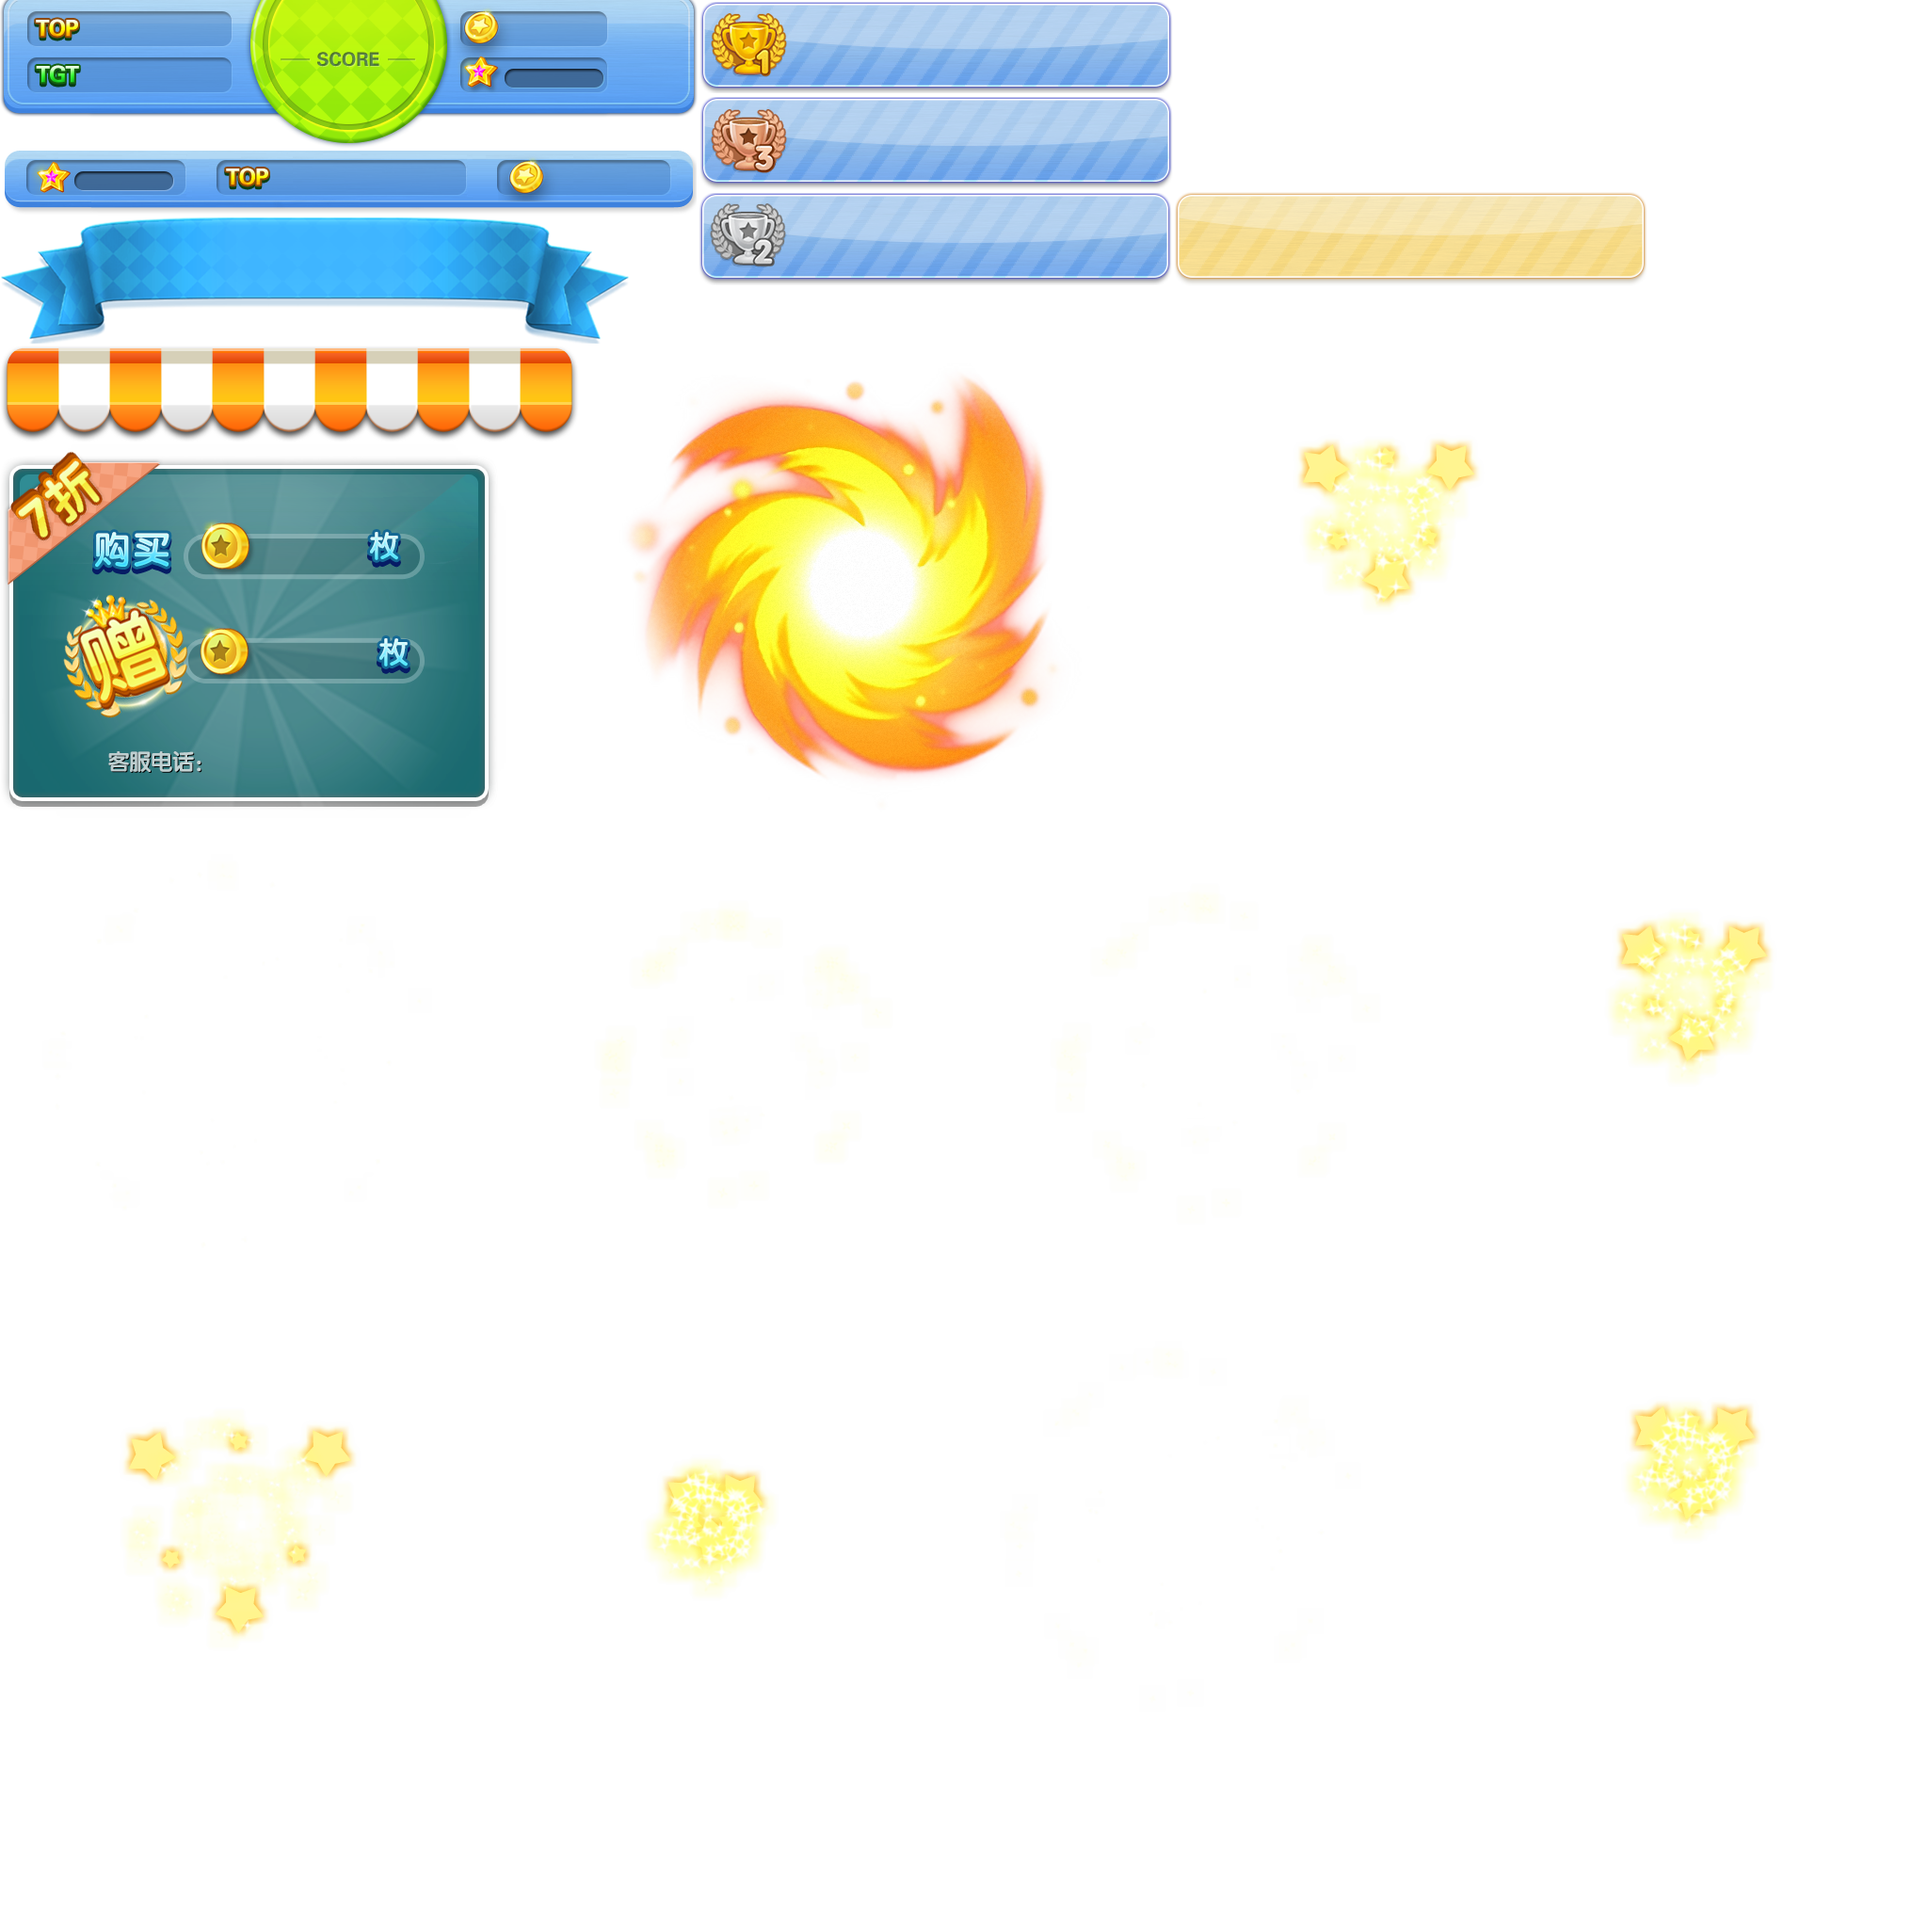
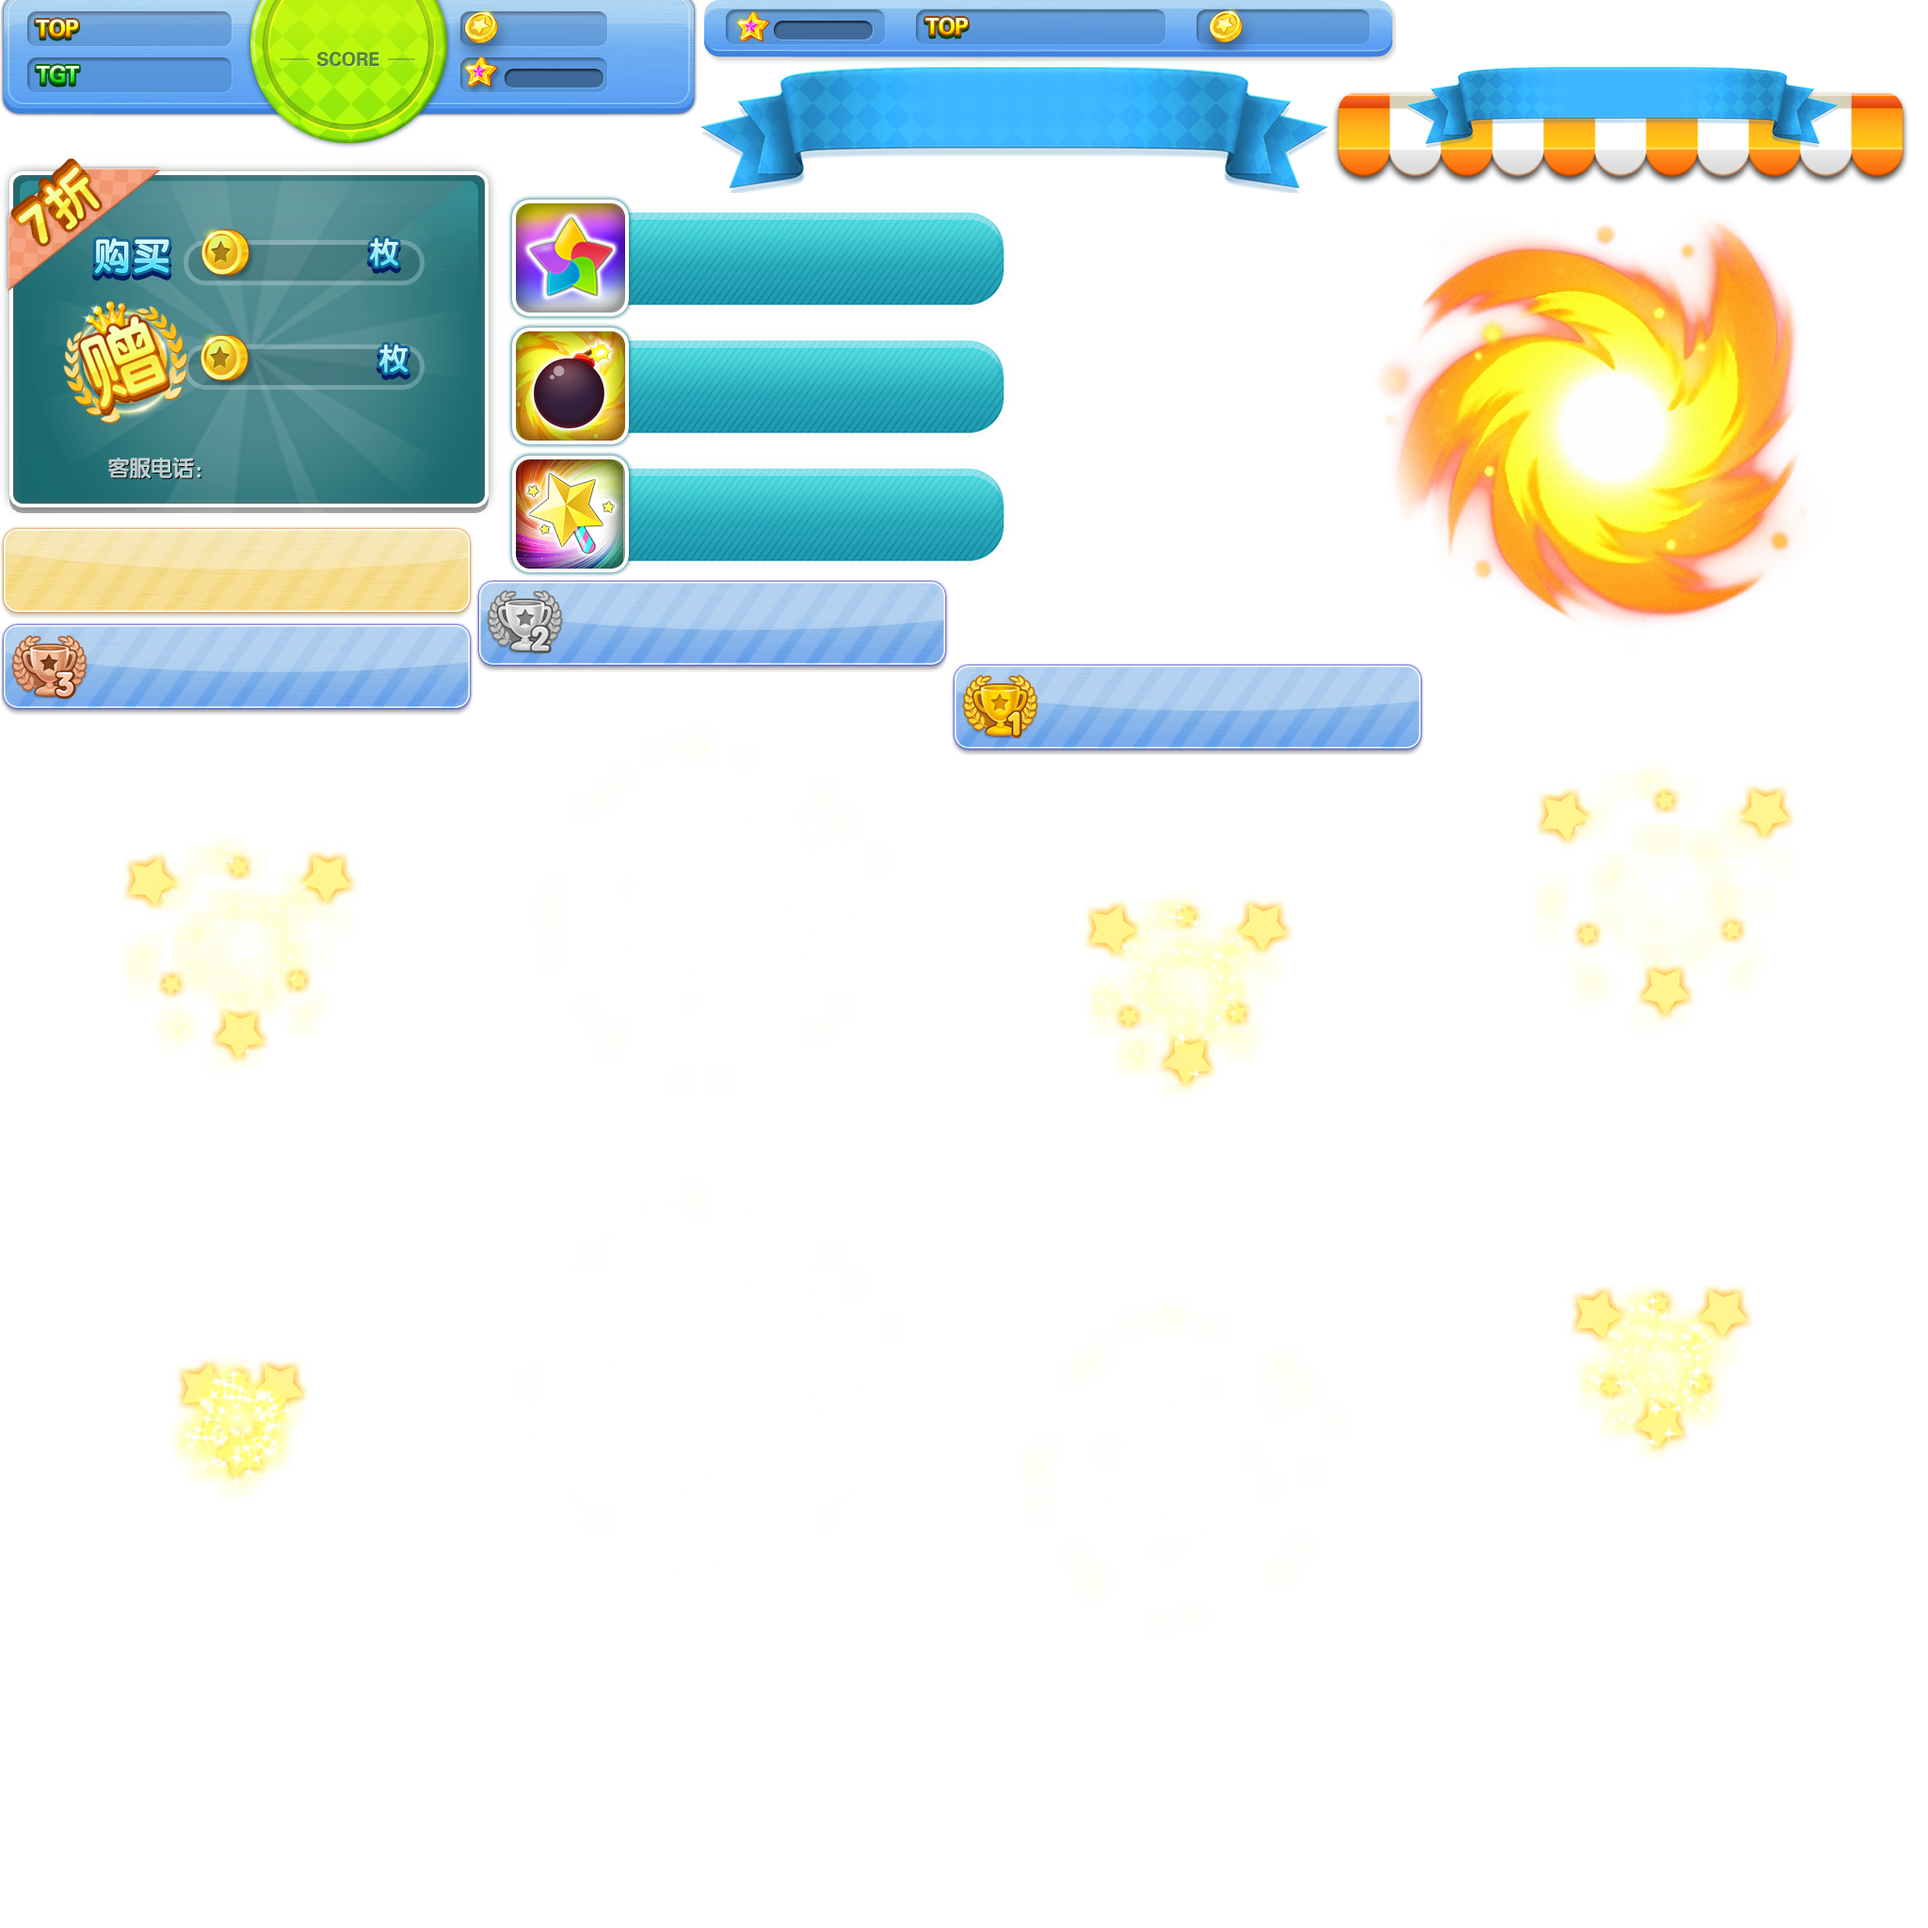
增加了消除6、8、12个以上时的特效

diff --git a/src/screen/play/PlayScene.ts b/src/screen/play/PlayScene.ts
@@ -1,5 +1,5 @@
 enum PLAY_STATUS {
-	nomal, changingStarType, removingStar
+	normal, changingStarType, removingStar
 }
 
 class PlayScene extends BaseScreen {
@@ -48,7 +48,7 @@ class PlayScene extends BaseScreen {
 
 	private _xiaoChuStar: { row: number, col: number }[];
 
-	private _status = PLAY_STATUS.nomal;
+	private _status = PLAY_STATUS.normal;
 
 	/**
 	 * 将要被消除的星星
@@ -181,7 +181,7 @@ class PlayScene extends BaseScreen {
 						});
 						this._xiaoChu([{ row: starTouched.row, col: starTouched.col }]);
 					});
-					this._status = PLAY_STATUS.nomal;
+					this._status = PLAY_STATUS.normal;
 					return;
 				}
 			}
@@ -242,6 +242,27 @@ class PlayScene extends BaseScreen {
 		const progressBar = this._topBar.getChild('n9').asProgress;
 		progressBar.max = progress.max;
 		progressBar.value = progress.val;
+
+		// 播放个动画
+		let animationName: string = null, h = 400, w = 640;
+		if (result.length > 11) {
+			animationName = 'PERFECT';
+		} else if (result.length > 7) {
+			animationName = 'cool';
+		} else if (result.length > 5) {
+			animationName = 'good';
+			w = 400;
+		}
+		if (animationName) {
+			const animation = Main.createComponent(animationName, w, h);
+			animation.x = (Main.stageWidth - w) >> 1;
+			animation.y = (Main.stageHeight - h) >> 1;
+			fairygui.GRoot.inst.addChild(animation);
+			animation.getTransition('t0').play(() => {
+				animation.removeFromParent();
+				animation.dispose();
+			});
+		}
 
 		const starDataArr = this._starDataArr;
 		let rowAndCol: { row: number, col: number };
@@ -547,6 +568,18 @@ class PlayScene extends BaseScreen {
 	 * 消除一个星星
 	 */
 	private _removeOnStar(): void {
+		if (this._status == PLAY_STATUS.removingStar) {
+			if (this._willBeRemovedStar) {
+				this._willBeRemovedStar.isSelected = false;
+				this._willBeRemovedStar.stop();
+				this._willBeRemovedStar = null;
+			}
+			this._status = PLAY_STATUS.normal;
+			return;
+		}
+		if (this._status == PLAY_STATUS.changingStarType) {
+			ChangeTypePanel.instance.close();
+		}
 		const itemCount: number = LocalStorage.getItem(LocalStorageKey.item1);
 		if (itemCount < 1) {
 			let dollar: number = LocalStorage.getItem(LocalStorageKey.dollar);
@@ -566,6 +599,18 @@ class PlayScene extends BaseScreen {
 	 * 改变一个星星的type
 	 */
 	private _changeStarType(): void {
+		if (this._status == PLAY_STATUS.changingStarType) {
+			ChangeTypePanel.instance.close();
+			this._status = PLAY_STATUS.normal;
+			return;
+		}
+		if (this._status == PLAY_STATUS.removingStar) {
+			if (this._willBeRemovedStar) {
+				this._willBeRemovedStar.isSelected = false;
+				this._willBeRemovedStar.stop();
+				this._willBeRemovedStar = null;
+			}
+		}
 		const itemCount: number = LocalStorage.getItem(LocalStorageKey.item3);
 		if (itemCount < 1) {
 			let dollar: number = LocalStorage.getItem(LocalStorageKey.dollar);
@@ -606,13 +651,24 @@ class PlayScene extends BaseScreen {
 	}
 
 	private _onChangeTypePanelClosed(): void {
-		this._status = PLAY_STATUS.nomal;
+		this._status = PLAY_STATUS.normal;
 	}
 
 	/**
 	 * 所有的星星随机变换下位置
 	 */
 	private _transposeStar(): void {
+		if (this._status == PLAY_STATUS.changingStarType) {
+			ChangeTypePanel.instance.close();
+		} else if (this._status == PLAY_STATUS.removingStar) {
+			if (this._willBeRemovedStar) {
+				this._willBeRemovedStar.isSelected = false;
+				this._willBeRemovedStar.stop();
+				this._willBeRemovedStar = null;
+			}
+		}
+		this._status = PLAY_STATUS.normal;
+
 		let costDollar = false;
 		const itemCount: number = LocalStorage.getItem(LocalStorageKey.item2);
 		if (itemCount < 1) {

diff --git a/src/screen/main/MainScene.ts b/src/screen/main/MainScene.ts
@@ -4,16 +4,16 @@ class MainScene extends BaseScreen {
 
 	private _mainPanel: fairygui.GComponent;
 
-	private _topBar: fairygui.GComponent;
+	// private _topBar: fairygui.GComponent;
 
 	public constructor() {
 		super();
 
 		this._mainPanel = Main.createPanel('登录的页面');
-		this._topBar = this._mainPanel.getChild('n13').asCom;
-		this._topBar.getChild('n14').addClickListener(() => {
-			PayPanel.instance.show();
-		}, this);
+		// this._topBar = this._mainPanel.getChild('n13').asCom;
+		// this._topBar.getChild('n14').addClickListener(() => {
+		// 	PayPanel.instance.show();
+		// }, this);
 
 		// 进入关卡的按钮
 		this._mainPanel.getChild('n4').addClickListener(this._onEnterLevelScreen, this);
@@ -26,20 +26,20 @@ class MainScene extends BaseScreen {
 	}
 
 	updateDollar(): void {
-		this._topBar.getChild('n2').text = LocalStorage.getItem(LocalStorageKey.dollar).toString();
+		// this._topBar.getChild('n2').text = LocalStorage.getItem(LocalStorageKey.dollar).toString();
 	}
 
 	reset(): void {
 		fairygui.GRoot.inst.removeChildren();
 		fairygui.GRoot.inst.addChild(this._mainPanel);
 
-		this._topBar.getChild('n2').text = LocalStorage.getItem(LocalStorageKey.dollar).toString();
-		this._topBar.getChild('n4').text = Util.getLv().toString();
-		this._topBar.getChild('n7').text = LocalStorage.getItem(LocalStorageKey.maxTotalScore).toString();
-		const expBar = this._topBar.getChild('n9').asProgress;
-		const progress = Util.getExpProgress();
-		expBar.max = progress.max;
-		expBar.value = progress.val;
+		// this._topBar.getChild('n2').text = LocalStorage.getItem(LocalStorageKey.dollar).toString();
+		// this._topBar.getChild('n4').text = Util.getLv().toString();
+		// this._topBar.getChild('n7').text = LocalStorage.getItem(LocalStorageKey.maxTotalScore).toString();
+		// const expBar = this._topBar.getChild('n9').asProgress;
+		// const progress = Util.getExpProgress();
+		// expBar.max = progress.max;
+		// expBar.value = progress.val;
 	}
 
 	private _onEnterLevelScreen(): void {

diff --git a/src/panel/RankPanel.ts b/src/panel/RankPanel.ts
@@ -7,12 +7,31 @@ class RankPanel extends BasePanel {
 	}
 
 	protected _init(): void {
-		this._ui = Main.createComponent('排行弹窗', 615, 900);
-		this._ui.x = (Main.stageWidth - 615) >> 1;
-		this._ui.y = (Main.stageHeight - 900) >> 1;
+		this._ui = Main.createComponent('排行弹窗', 650, 1000);
+		this._ui.x = (Main.stageWidth - 650) >> 1;
+		this._ui.y = (Main.stageHeight - 1000) >> 1;
 		this._ui.getController('c1').selectedIndex = 1;
 		const ui = this._ui.getChild('n0').asCom;
 		ui.getChild('n34').addClickListener(this._onClose, this);
+
+		ui.getChild('n43').addClickListener(this._onShowMonthRank, this);
+		ui.getChild('n44').addClickListener(this._onShowWeekRank, this);
+	}
+
+	/**
+	 * 显示周排行
+	 */
+	private _onShowWeekRank(): void {
+		const ui = this._ui.getChild('n0').asCom;
+		ui.getController('c1').selectedIndex = 0;
+	}
+
+	/**
+	 * 显示月排行
+	 */
+	private _onShowMonthRank(): void {
+		const ui = this._ui.getChild('n0').asCom;
+		ui.getController('c1').selectedIndex = 1;
 	}
 
 	static get instance(): RankPanel {

diff --git a/src/panel/ChangeTypePanel.ts b/src/panel/ChangeTypePanel.ts
@@ -71,6 +71,10 @@ class ChangeTypePanel extends BasePanel {
 	}
 
 	protected _closed(): void {
+		if (this._star) {
+			this._star.stop();
+			this._star = null;
+		}
 		this._ui.removeFromParent();
 		this._arrow.removeFromParent();
 		this.dispatchEvent(new egret.Event(egret.Event.CLOSE));

diff --git a/src/panel/BasePanel.ts b/src/panel/BasePanel.ts
@@ -16,6 +16,10 @@ abstract class BasePanel extends egret.EventDispatcher {
 		this._ui.getTransition('t0').play();
 	}
 
+	close(): void {
+		this._onClose();
+	}
+
 	protected abstract _init(): void;
 
 	protected _onClose(evt?: egret.TouchEvent): void {
